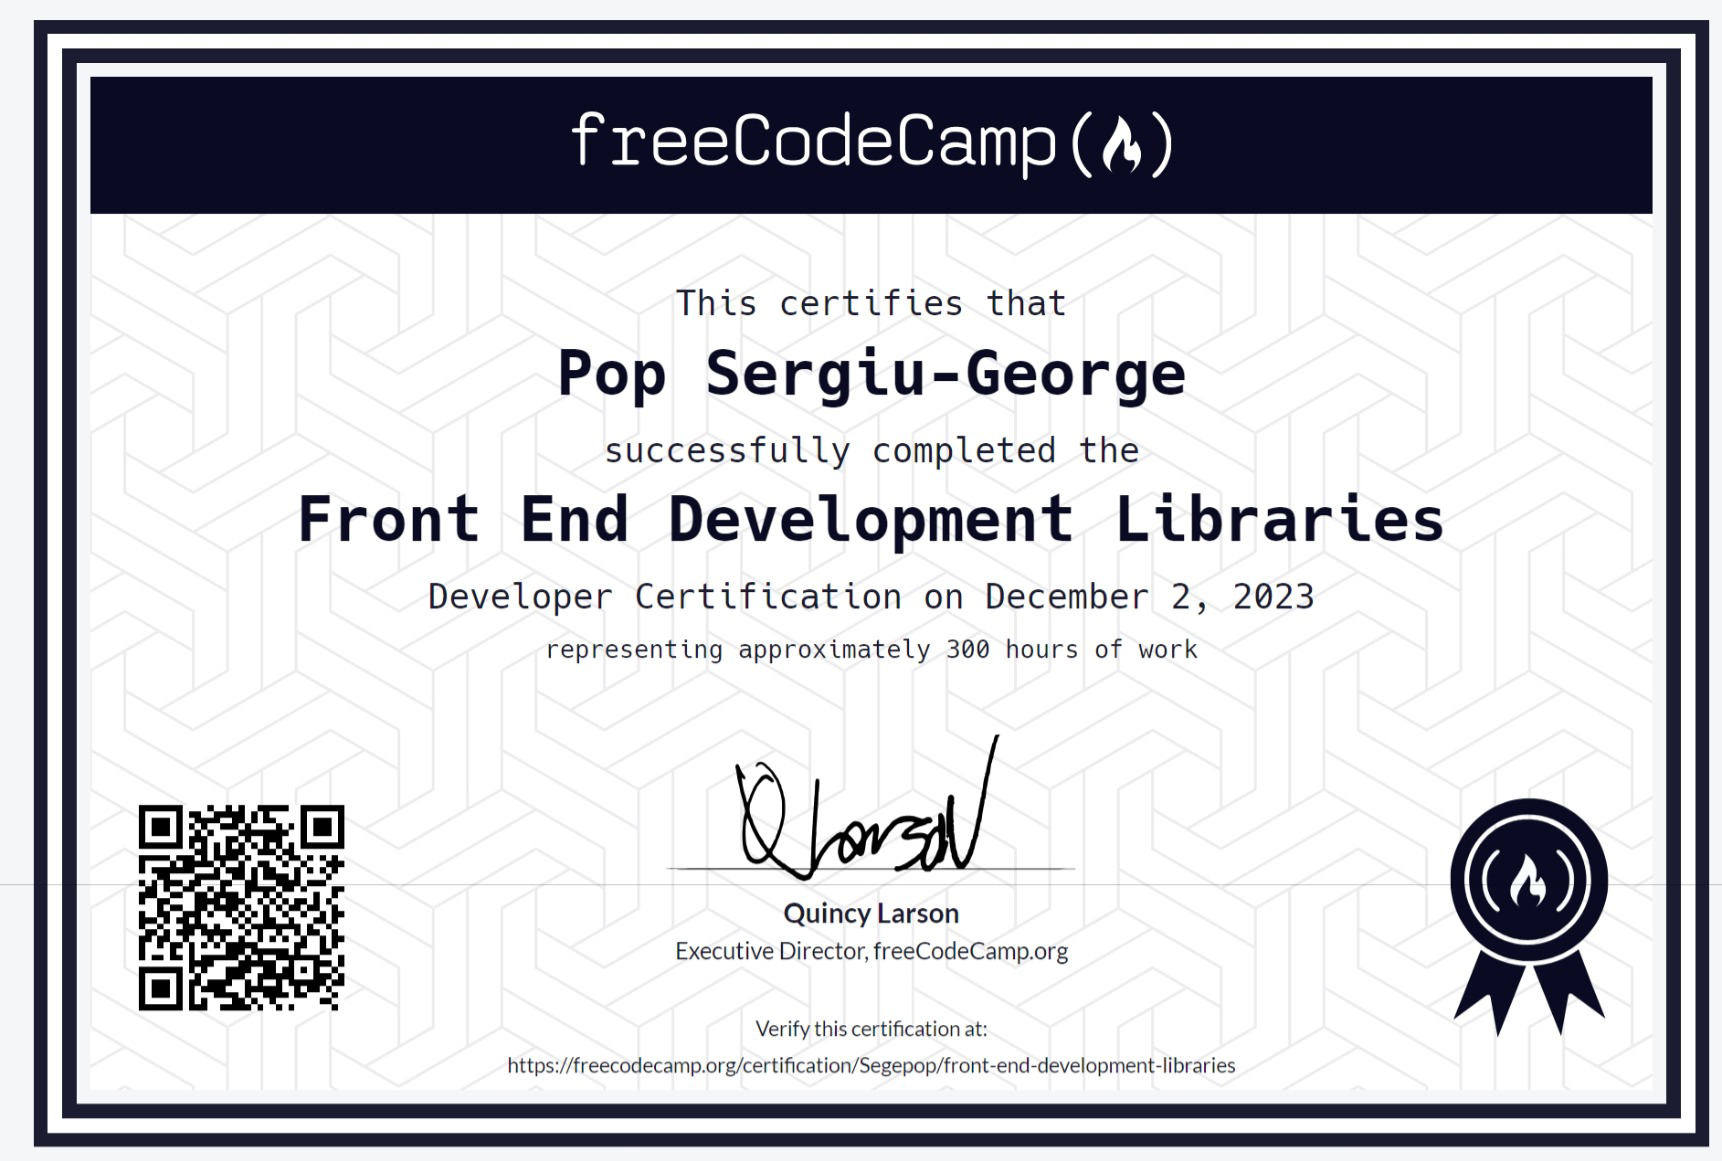
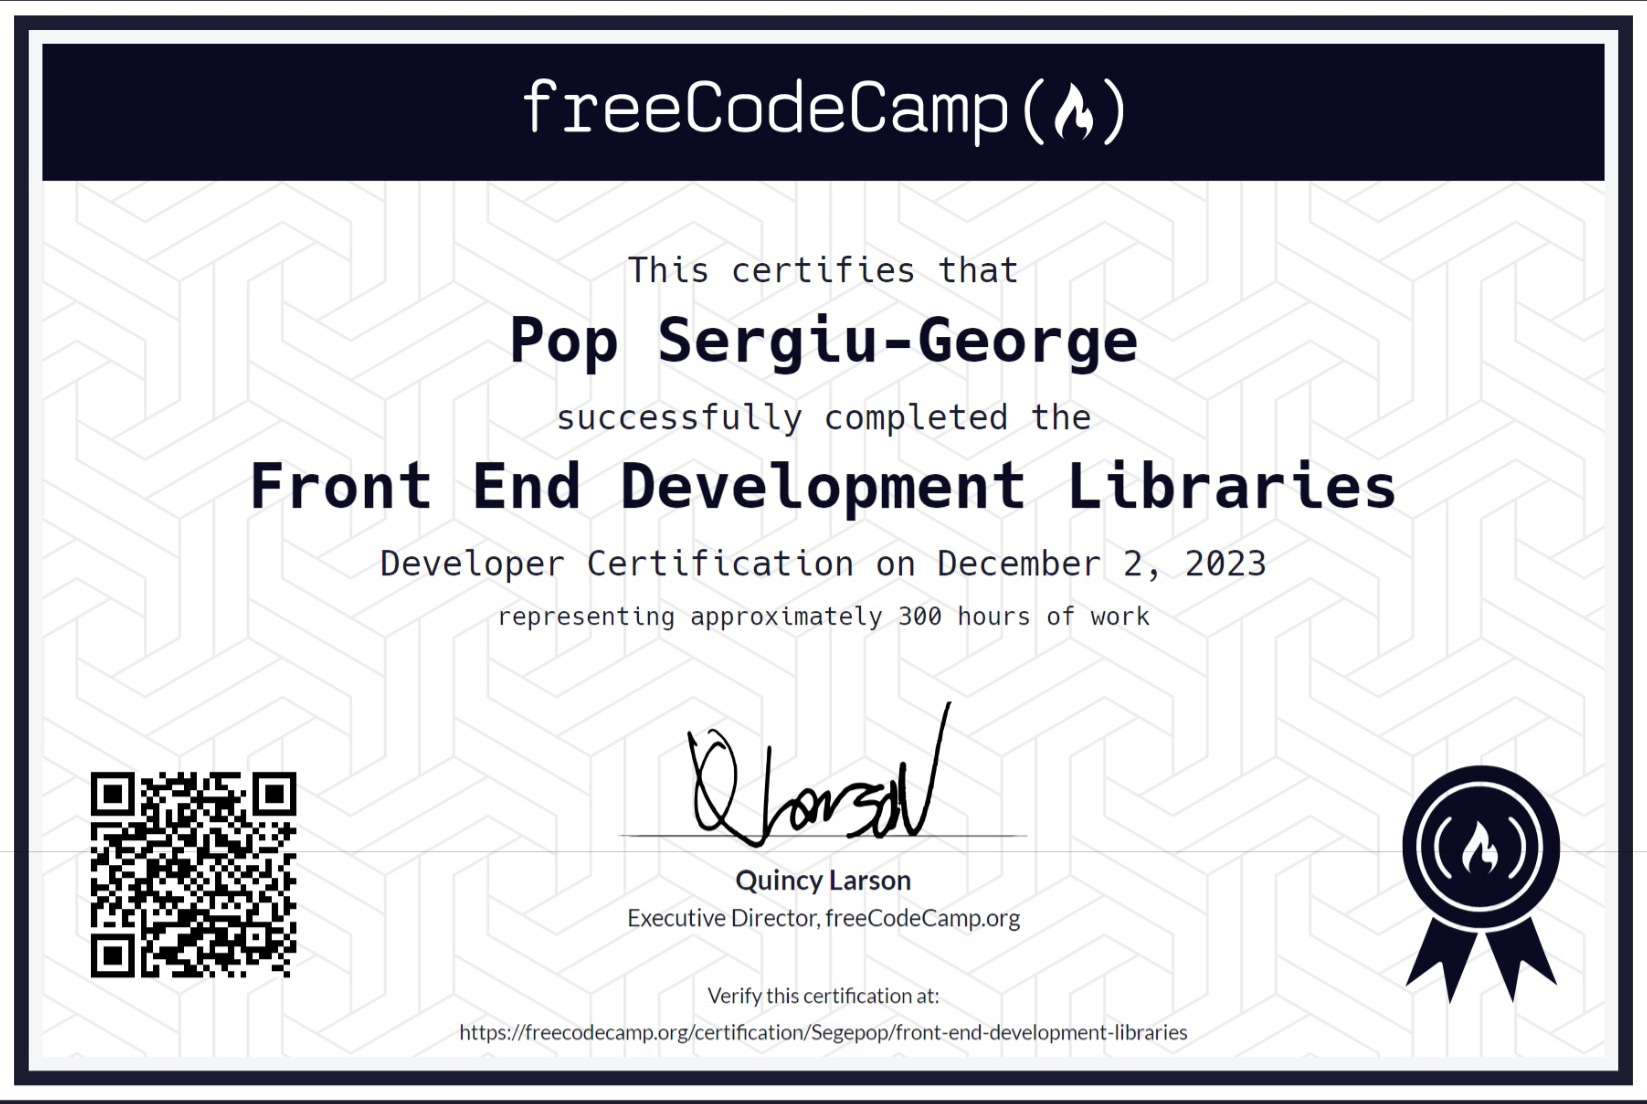
Cropping error fixed

Changed region(s): [[0.0, 0.0, 1.0, 1.0], [0.1548, 0.2156, 0.867, 0.5851]]

diff --git a/src/App.css b/src/App.css
@@ -109,10 +109,6 @@
   section {
     font-size: 1.1em;
   }
-  .each-slide-effect > div {
-    height: 400px !important;
-    margin-top:50px;    
-  }
 }
 /* Large devices (laptops/desktops, 992px and up) */
 @media only screen and (min-width: 992px) {
